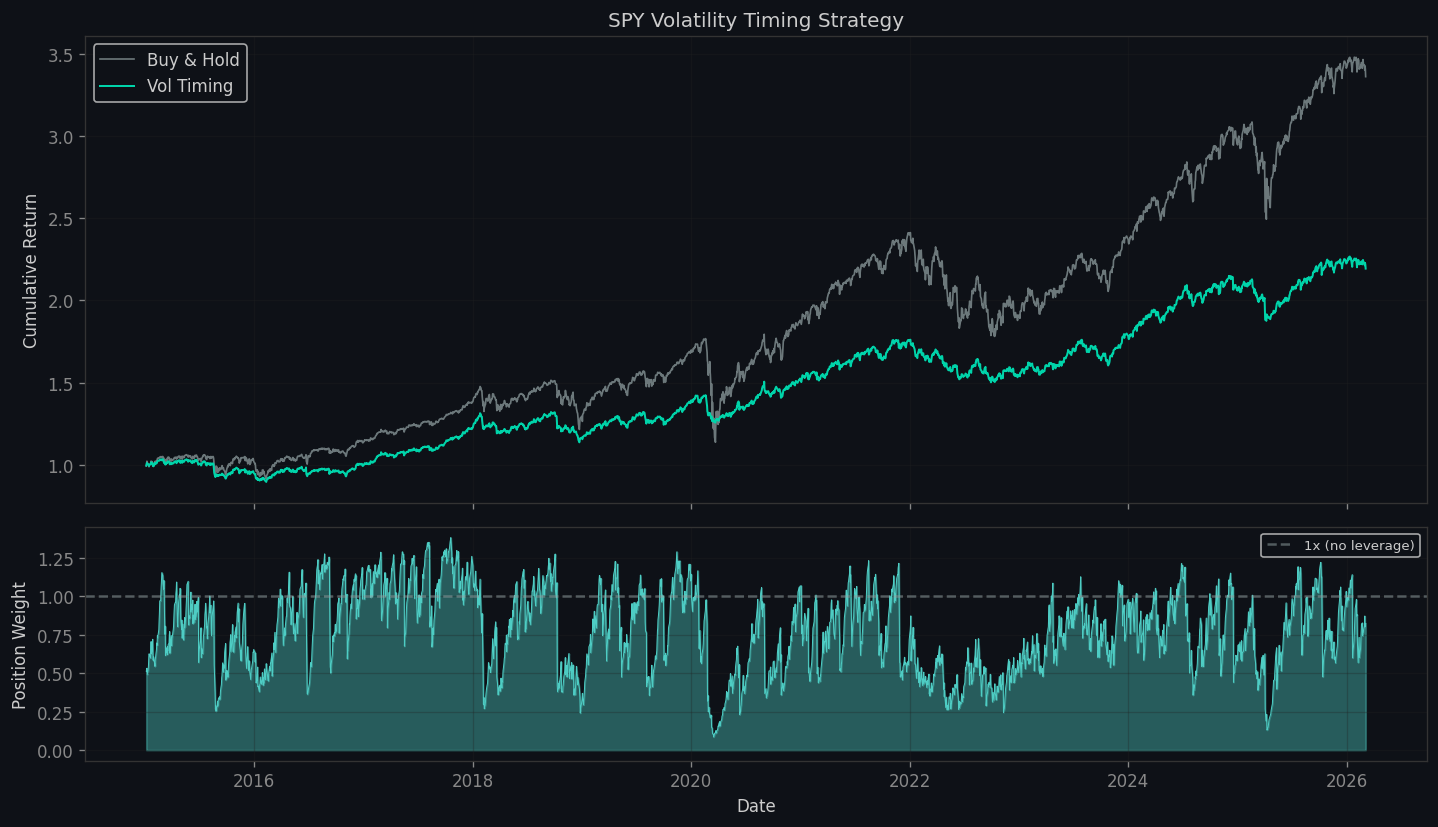
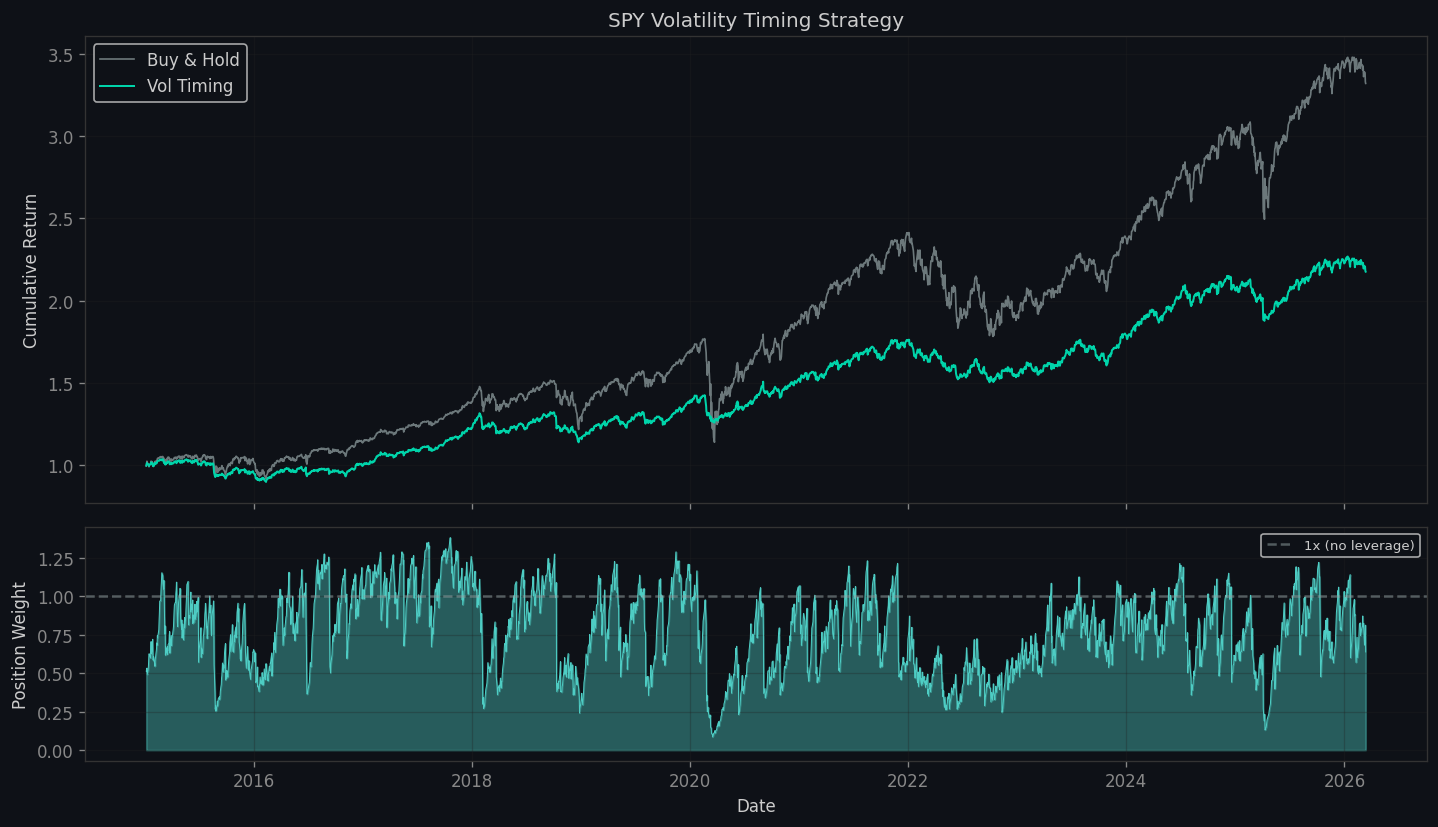
fix: resolve chart rendering issues and improve regime detection
- Replace Chinese regime labels with English (Calm/Choppy/Panic/Crisis)
  to fix garbled matplotlib legend on systems without CJK fonts
- Add regime smoothing (min_regime_days) to prevent unrealistic 1-day
  oscillations between similar states
- Default to 2 regimes (Calm vs Choppy) which better fits SPY's actual
  market structure than 3 near-identical states
- Improve QQ-plot: tail points now scale by deviation from normal line,
  making fat-tail departure immediately visible
- Simplify pair trading z-score chart: replace cluttered position
  shading with cleaner fill-between for entry zones
- Add smoothing unit test (27 tests, all passing)
- Regenerate all output images

diff --git a/marketdna/analysis/regime.py b/marketdna/analysis/regime.py
@@ -52,36 +52,71 @@ class RegimeFingerprint:
 
     @property
     def regime_names(self) -> list[str]:
-        """根据波动率大小给 regime 起名字"""
+        """Name each regime by volatility rank"""
         vol_order = np.argsort(self.regime_vols)
         names = [""] * self.n_regimes
-        labels = ["低波平静", "中波震荡", "高波恐慌", "极端危机"]
+        labels = ["Calm", "Choppy", "Panic", "Crisis"]
         for rank, idx in enumerate(vol_order):
             name_idx = min(rank, len(labels) - 1)
             names[idx] = labels[name_idx]
         return names
 
 
+def _smooth_labels(labels: np.ndarray, min_duration: int = 5) -> np.ndarray:
+    """Smooth regime labels by removing short-lived segments.
+
+    Single-pass: identify all segments, then replace any segment
+    shorter than min_duration with its left neighbor's label.
+    """
+    smoothed = labels.copy()
+    n = len(smoothed)
+
+    # Step 1: identify segment boundaries on the original labels
+    segments: list[tuple[int, int, int]] = []  # (start, end, label)
+    i = 0
+    while i < n:
+        j = i + 1
+        while j < n and smoothed[j] == smoothed[i]:
+            j += 1
+        segments.append((i, j, int(smoothed[i])))
+        i = j
+
+    # Step 2: merge short segments into the previous segment
+    for idx in range(1, len(segments)):
+        start, end, val = segments[idx]
+        if (end - start) < min_duration:
+            prev_val = segments[idx - 1][2]
+            smoothed[start:end] = prev_val
+            # Update this segment's label so subsequent merges chain correctly
+            segments[idx] = (start, end, prev_val)
+
+    return smoothed
+
+
 def analyze_regime(
     returns: pd.Series,
     ticker: str = "",
-    n_regimes: int = 3,
+    n_regimes: int = 2,
+    min_regime_days: int = 3,
 ) -> RegimeFingerprint:
-    """用 HMM 检测市场 regime
+    """Detect market regimes using Hidden Markov Model
 
     Parameters
     ----------
     returns : pd.Series
-        日度 log 收益率
+        Daily log returns
     n_regimes : int
-        假设的状态数量（2=牛/熊，3=牛/震荡/熊，推荐3）
+        Number of hidden states (2=bull/bear, 3=bull/choppy/bear)
+    min_regime_days : int
+        Minimum regime duration in days. Shorter segments are merged
+        into the previous regime to prevent unrealistic oscillations.
     """
     from hmmlearn.hmm import GaussianHMM
 
     r = returns.dropna()
     X = r.values.reshape(-1, 1)
 
-    # 训练 HMM
+    # Train HMM
     model = GaussianHMM(
         n_components=n_regimes,
         covariance_type="full",
@@ -90,9 +125,13 @@ def analyze_regime(
     )
     model.fit(X)
 
-    # 预测每天的状态
+    # Predict states
     labels = model.predict(X)
     probs = model.predict_proba(X)
+
+    # Smooth out short-lived regime flickers
+    if min_regime_days > 1:
+        labels = _smooth_labels(labels, min_duration=min_regime_days)
 
     # 提取每个 regime 的参数
     means_daily = model.means_.flatten()
@@ -141,29 +180,29 @@ def analyze_regime(
 
 
 def print_regime(rf: RegimeFingerprint) -> None:
-    """人话版 regime 报告"""
+    """Human-readable regime report"""
 
     print(f"\n{'='*60}")
-    print(f"  🎭 {rf.ticker} Regime 指纹 ({rf.n_regimes}个状态)")
+    print(f"  Regime Fingerprint: {rf.ticker} ({rf.n_regimes} states)")
     print(f"{'='*60}")
 
     names = rf.regime_names
     for i in range(rf.n_regimes):
         pct_time = float((rf.regime_labels == i).mean() * 100)
         print(f"\n  Regime {i}: {names[i]}")
-        print(f"    年化收益:  {rf.regime_means[i]:+.1%}")
-        print(f"    年化波动:  {rf.regime_vols[i]:.1%}")
-        print(f"    平均持续:  {rf.regime_durations[i]:.0f} 天")
-        print(f"    时间占比:  {pct_time:.1f}%")
+        print(f"    Ann. Return:   {rf.regime_means[i]:+.1%}")
+        print(f"    Ann. Vol:      {rf.regime_vols[i]:.1%}")
+        print(f"    Avg Duration:  {rf.regime_durations[i]:.0f} days")
+        print(f"    Time Share:    {pct_time:.1f}%")
 
-    print(f"\n  转移概率矩阵:")
+    print(f"\n  Transition Matrix:")
     for i in range(rf.n_regimes):
-        row = "    " + " → ".join(
+        row = " -> ".join(
             f"{rf.transition_matrix[i, j]:.2%}" for j in range(rf.n_regimes)
         )
-        print(f"    从 {names[i]}: {row}")
+        print(f"    {names[i]:>8s}: {row}")
 
     cur = rf.current_regime
-    print(f"\n  📍 当前状态: Regime {cur} ({names[cur]})")
-    print(f"     置信度:   {rf.current_regime_prob:.1%}")
+    print(f"\n  Current State: Regime {cur} ({names[cur]})")
+    print(f"  Confidence:    {rf.current_regime_prob:.1%}")
     print(f"{'='*60}\n")

diff --git a/marketdna/viz/plots.py b/marketdna/viz/plots.py
@@ -68,9 +68,15 @@ def plot_qq(returns: pd.Series, ticker: str = "", save_path: str | None = None) 
 
     (theoretical, sample), (slope, intercept, _) = stats.probplot(r, dist="norm")
 
-    ax.scatter(theoretical, sample, s=8, alpha=0.5, color=COLORS["primary"], zorder=2)
+    # Size points by distance from the reference line — tails get bigger
+    expected = slope * theoretical + intercept
+    deviation = np.abs(sample - expected)
+    sizes = 6 + 80 * (deviation / (deviation.max() + 1e-9))
 
-    # 参考线
+    ax.scatter(theoretical, sample, s=sizes, alpha=0.6, color=COLORS["primary"],
+               edgecolors="white", linewidths=0.3, zorder=2)
+
+    # Reference line
     x_line = np.array([theoretical.min(), theoretical.max()])
     ax.plot(x_line, slope * x_line + intercept, "--", color=COLORS["secondary"], linewidth=1.5, label="Normal ref")
 
@@ -178,26 +184,17 @@ def plot_spread(
     ax1.set_title(f"{ticker_a}/{ticker_b} Pair Trading Spread & Z-Score")
     ax1.grid(True, alpha=0.3)
 
-    # 下图：Z-Score + 阈值
-    ax2.plot(zscore.index, zscore.values, color=COLORS["accent"], linewidth=0.8)
-    ax2.axhline(entry_z, color=COLORS["secondary"], linestyle="--", alpha=0.7, label=f"Entry +{entry_z}")
-    ax2.axhline(-entry_z, color=COLORS["secondary"], linestyle="--", alpha=0.7, label=f"Entry -{entry_z}")
-    ax2.axhline(exit_z, color=COLORS["warn"], linestyle=":", alpha=0.5)
-    ax2.axhline(-exit_z, color=COLORS["warn"], linestyle=":", alpha=0.5)
+    # Lower panel: Z-Score with thresholds (simplified — no position shading to reduce clutter)
+    ax2.fill_between(zscore.index, 0, zscore.values,
+                     where=zscore.values > entry_z, alpha=0.3,
+                     color=COLORS["secondary"], label=f"Short zone (z>{entry_z})")
+    ax2.fill_between(zscore.index, 0, zscore.values,
+                     where=zscore.values < -entry_z, alpha=0.3,
+                     color=COLORS["primary"], label=f"Long zone (z<-{entry_z})")
+    ax2.plot(zscore.index, zscore.values, color=COLORS["accent"], linewidth=0.6, alpha=0.8)
+    ax2.axhline(entry_z, color=COLORS["secondary"], linestyle="--", alpha=0.5)
+    ax2.axhline(-entry_z, color=COLORS["secondary"], linestyle="--", alpha=0.5)
     ax2.axhline(0, color=COLORS["neutral"], linestyle="-", alpha=0.3)
-
-    # 标注持仓区域
-    if positions is not None:
-        long_mask = positions > 0
-        short_mask = positions < 0
-        if long_mask.any():
-            ax2.fill_between(zscore.index, zscore.min(), zscore.max(),
-                           where=long_mask.reindex(zscore.index, fill_value=False),
-                           alpha=0.1, color=COLORS["primary"], label="Long spread")
-        if short_mask.any():
-            ax2.fill_between(zscore.index, zscore.min(), zscore.max(),
-                           where=short_mask.reindex(zscore.index, fill_value=False),
-                           alpha=0.1, color=COLORS["secondary"], label="Short spread")
 
     ax2.set_ylabel("Z-Score")
     ax2.set_xlabel("Date")
@@ -380,7 +377,11 @@ def plot_full_dashboard(
     # (0,1) QQ-Plot
     ax = axes[0, 1]
     (theoretical, sample), (slope, intercept, _) = stats.probplot(r.values, dist="norm")
-    ax.scatter(theoretical, sample, s=5, alpha=0.4, color=COLORS["primary"])
+    expected = slope * theoretical + intercept
+    dev = np.abs(sample - expected)
+    sizes = 4 + 60 * (dev / (dev.max() + 1e-9))
+    ax.scatter(theoretical, sample, s=sizes, alpha=0.5, color=COLORS["primary"],
+               edgecolors="white", linewidths=0.2)
     x_line = np.array([theoretical.min(), theoretical.max()])
     ax.plot(x_line, slope * x_line + intercept, "--", color=COLORS["secondary"], linewidth=1.5)
     ax.set_title("QQ-Plot vs Normal")

diff --git a/marketdna/tests/test_core.py b/marketdna/tests/test_core.py
@@ -177,7 +177,7 @@ class TestRegime:
     def test_regime_detection(self):
         from marketdna.analysis.regime import analyze_regime
         r = _make_returns(n=500)
-        rf = analyze_regime(r, "SYN", n_regimes=2)
+        rf = analyze_regime(r, "SYN", n_regimes=2, min_regime_days=1)
         assert rf.n_regimes == 2
         assert len(rf.regime_means) == 2
         assert len(rf.regime_vols) == 2
@@ -186,7 +186,7 @@ class TestRegime:
 
     def test_three_regimes(self):
         from marketdna.analysis.regime import analyze_regime
-        # 构造有三个明显 regime 的数据
+        # Construct data with 3 clear regimes
         rng = np.random.default_rng(42)
         low_vol = rng.normal(0.001, 0.005, 200)
         high_vol = rng.normal(-0.001, 0.03, 200)
@@ -194,16 +194,27 @@ class TestRegime:
         combined = np.concatenate([low_vol, high_vol, mid_vol])
         dates = pd.bdate_range("2020-01-01", periods=len(combined))
         r = pd.Series(combined, index=dates)
-        rf = analyze_regime(r, "3REG", n_regimes=3)
+        rf = analyze_regime(r, "3REG", n_regimes=3, min_regime_days=1)
         assert rf.n_regimes == 3
         assert len(rf.regime_names) == 3
 
     def test_regime_labels_aligned(self):
         from marketdna.analysis.regime import analyze_regime
         r = _make_returns(n=500)
-        rf = analyze_regime(r, "SYN", n_regimes=2)
+        rf = analyze_regime(r, "SYN", n_regimes=2, min_regime_days=1)
         assert len(rf.regime_labels) == len(r.dropna())
         assert rf.regime_probs.shape[1] == 2
+
+    def test_smoothing_removes_short_segments(self):
+        """Smoothing should prevent 1-day regime flickers"""
+        from marketdna.analysis.regime import analyze_regime
+        r = _make_returns(n=1000)
+        rf_raw = analyze_regime(r, "SYN", n_regimes=2, min_regime_days=1)
+        rf_smooth = analyze_regime(r, "SYN", n_regimes=2, min_regime_days=5)
+        # Smoothed version should have fewer regime switches
+        raw_switches = (rf_raw.regime_labels.diff().abs() > 0).sum()
+        smooth_switches = (rf_smooth.regime_labels.diff().abs() > 0).sum()
+        assert smooth_switches <= raw_switches
 
 
 # ---------------------------------------------------------------------------

diff --git a/marketdna/scan.py b/marketdna/scan.py
@@ -109,7 +109,7 @@ def scan(*tickers: str, start: str = "2010-01-01") -> DNAReport | list[DNAReport
 def scan_deep(
     ticker: str,
     start: str = "2010-01-01",
-    n_regimes: int = 3,
+    n_regimes: int = 2,
     target_vol: float = 0.10,
 ) -> dict:
     """深度扫描：基础DNA + Regime检测 + Vol Timing信号
@@ -143,7 +143,7 @@ def scan_pair_deep(
     ticker_a: str,
     ticker_b: str,
     start: str = "2010-01-01",
-    n_regimes: int = 3,
+    n_regimes: int = 2,
 ) -> dict:
     """深度配对扫描：基础DNA + 配对分析 + 配对交易信号 + Regime
 

diff --git a/run_demo.py b/run_demo.py
@@ -75,7 +75,7 @@ def demo_regime(data):
     from marketdna.analysis.regime import analyze_regime, print_regime
     from marketdna.viz.plots import plot_regime_timeline
 
-    regime = analyze_regime(data.log_returns, "SPY", n_regimes=3)
+    regime = analyze_regime(data.log_returns, "SPY", n_regimes=2)
     print_regime(regime)
 
     plot_regime_timeline(
